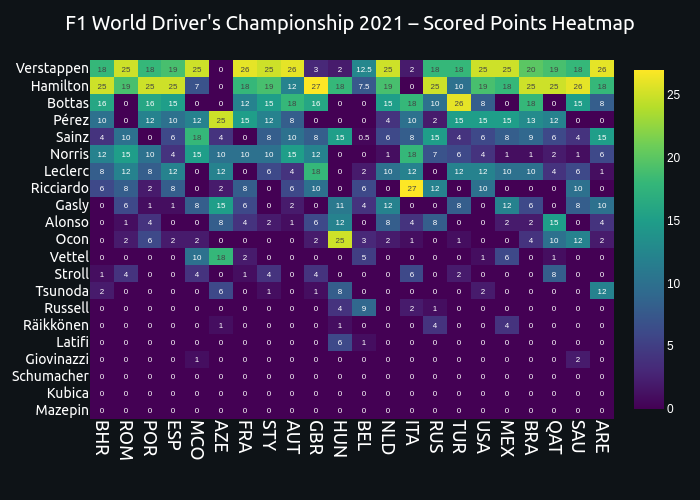
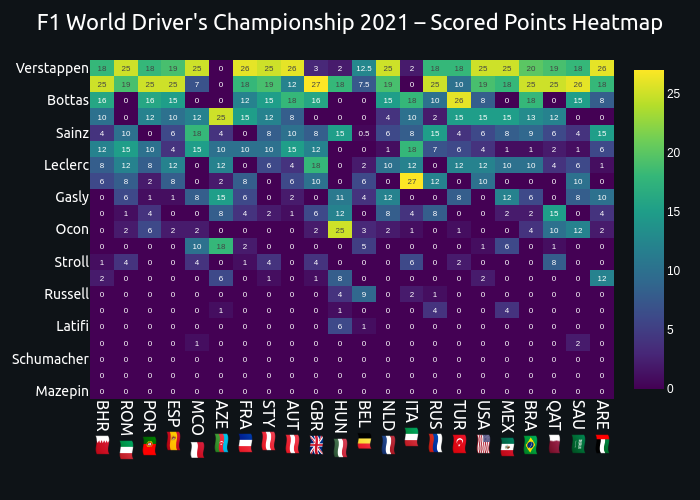
fine-tune plots

diff --git a/scripts/wdc.py b/scripts/wdc.py
@@ -12,6 +12,10 @@ def plot_wdc(df, title_type="full"):
     fig = go.Figure()
     # Add traces
     for driver in df.index:
+        if title_type == "full":
+            vis = "legendonly" if driver not in df.iloc[:10].index else None
+        else:
+            vis = None
         fig.add_trace(
             go.Scatter(
                 x=[" ".join(z) for z in zip(df.columns, flags)],
@@ -23,6 +27,7 @@ def plot_wdc(df, title_type="full"):
                 #     size=5,
                 #     line=dict(width=2),
                 # ),
+                visible=vis,
             )
         )
     fig.update_xaxes(
@@ -53,13 +58,13 @@ def plot_wdc(df, title_type="full"):
     elif title_type == "top10":
         title_text = "F1 World Drivers' Championship 2021 (Top10)"
     elif title_type == "rest":
-        title_text = "F1 World Drivers' Championship 2021 (Pos11+)"
+        title_text = "F1 World Drivers' Championship 2021 (Positions 11+)"
     fig.update_layout(
         paper_bgcolor="#0e1317",
         plot_bgcolor="#0e1317",
         title=dict(
             text=title_text,
-            font=dict(family="Ubuntu", size=20, color="white"),
+            font=dict(family="Ubuntu", size=22, color="white"),
             xanchor="center",
             x=0.5,
         ),
@@ -77,9 +82,9 @@ if __name__ == "__main__":
     fig.write_image("plots/png/f1wdc2021.png")
     fig.write_json("plots/json/f1wdc2021.json")
     # top 10 drivers
-    fig = plot_wdc(df.iloc[:10], title_type="top10")
-    fig.write_image("plots/png/f1wdc2021-top10.png")
-    fig.write_json("plots/json/f1wdc2021-top10.json")
+    # fig = plot_wdc(df.iloc[:10], title_type="top10")
+    # fig.write_image("plots/png/f1wdc2021-top10.png")
+    # fig.write_json("plots/json/f1wdc2021-top10.json")
     # rest
     fig = plot_wdc(df.iloc[10:], title_type="rest")
     fig.write_image("plots/png/f1wdc2021-rest.png")

diff --git a/scripts/heatmap.py b/scripts/heatmap.py
@@ -25,10 +25,10 @@ import plotly.express as px
 def plot_heatmap(df):
     """Plot heatmap of scored points for F1 WDC 2021"""
     flags1 = ["🇧🇭", "🇮🇹", "🇵🇹", "🇪🇸", "🇲🇨", "🇦🇿", "🇫🇷", "🇦🇹"]
-    flags2 = ["🇦🇹x2", "🇬🇧", "🇭🇺", "🇧🇪", "🇳🇱", "🇮🇹x2", "🇷🇺", "🇹🇷"]
+    flags2 = ["🇦🇹", "🇬🇧", "🇭🇺", "🇧🇪", "🇳🇱", "🇮🇹", "🇷🇺", "🇹🇷"]
     flags3 = ["🇺🇸", "🇲🇽", "🇧🇷", "🇶🇦", "🇸🇦", "🇦🇪"]
     flags = flags1 + flags2 + flags3
-    drivers = df.index
+    # drivers = df.index
     # drivers = df.iloc[:10].index
     # tracks = df.columns
     # fig = go.Figure(
@@ -36,13 +36,19 @@ def plot_heatmap(df):
     #     # labels=dict(color="Points"),
     #     text_auto=True,
     # )
-    fig = px.imshow(df, text_auto=True, aspect="auto", color_continuous_scale="Viridis")
+    fig = px.imshow(
+        df,
+        x=[" ".join(z) for z in zip(df.columns, flags)],
+        text_auto=True,
+        aspect="auto",
+        color_continuous_scale="Viridis",
+    )
     fig.update_xaxes(
         title=dict(
             text="",
             font=dict(family="Ubuntu", size=18, color="white"),
         ),
-        tickfont=dict(family="Ubuntu", size=18, color="white"),
+        tickfont=dict(family="Ubuntu", size=16, color="white"),
         tickangle=90,
         side="bottom",
     )
@@ -55,7 +61,7 @@ def plot_heatmap(df):
         plot_bgcolor="#0e1317",
         title=dict(
             text="F1 World Driver's Championship 2021 \u2013 Scored Points Heatmap",
-            font=dict(family="Ubuntu", size=20, color="white"),
+            font=dict(family="Ubuntu", size=22, color="white"),
             xanchor="center",
             x=0.5,
         ),
